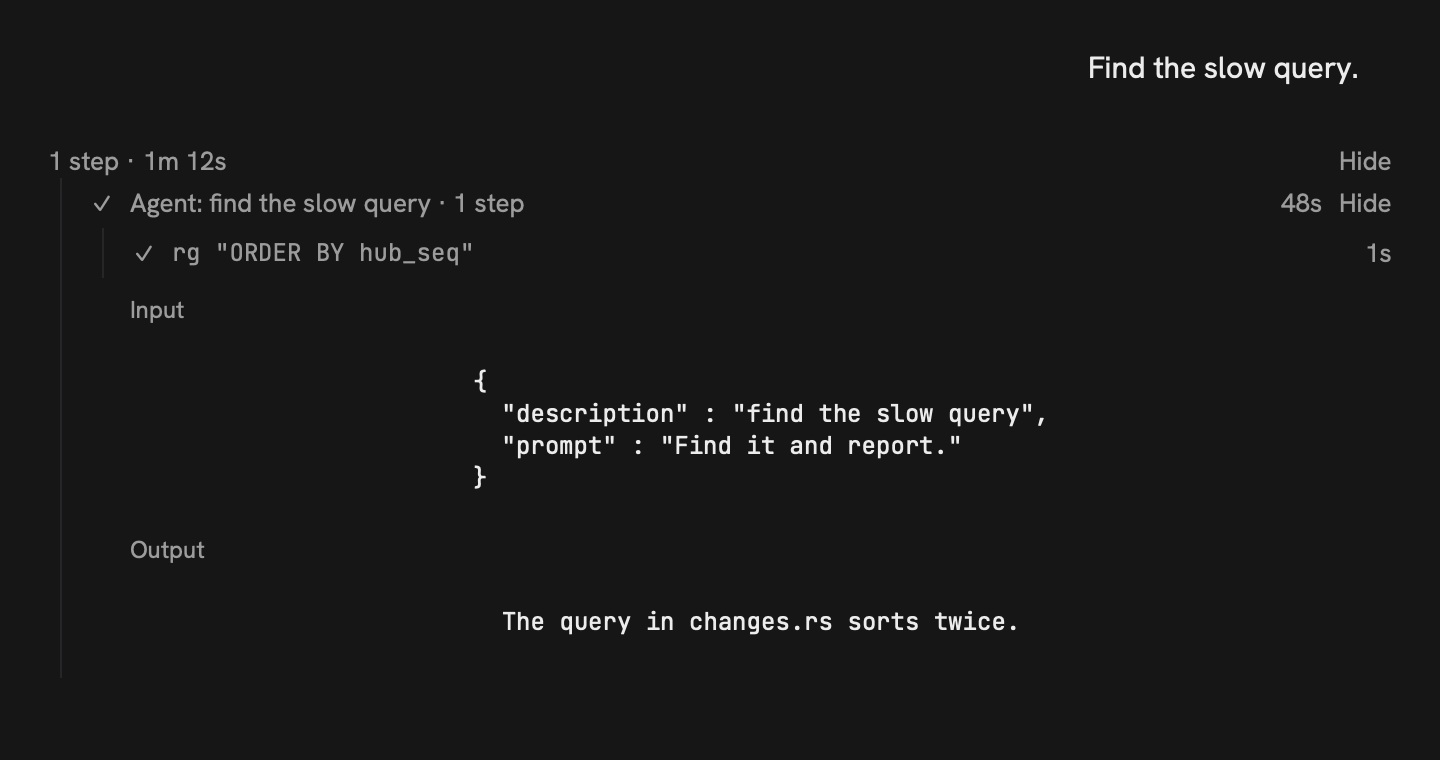
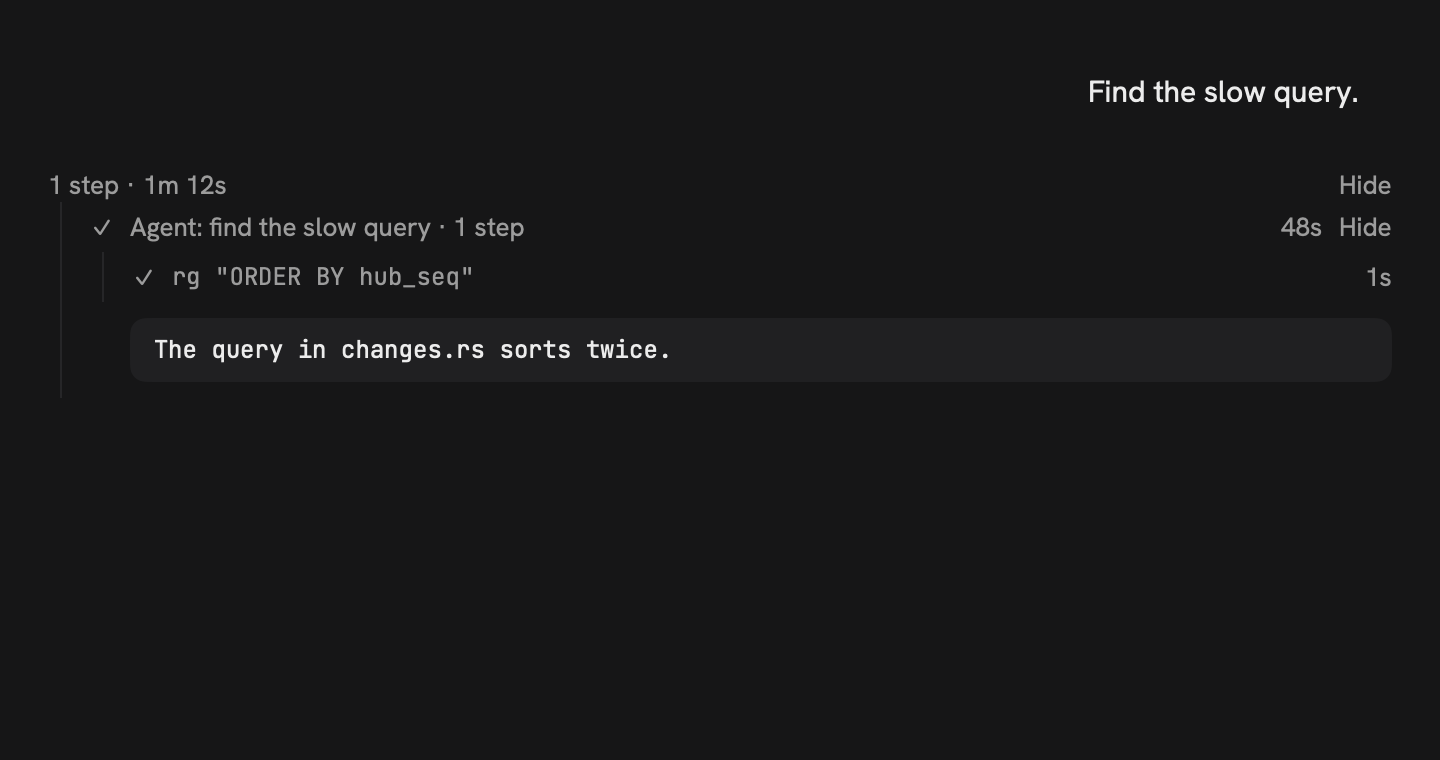
fix(ui): a step's output is a quiet block; an agent's output is its result alone

diff --git a/Tests/WorkspaceUITests/StepRowTests.swift b/Tests/WorkspaceUITests/StepRowTests.swift
@@ -213,6 +213,24 @@ import WorkspaceProtocol
     #expect(DenseTranscript.entries(items: items, turns: [turn()], open: ["t1", "gone", "c1"]) == plain)
   }
 
+  // MARK: the output block
+
+  @Test func theOutputBlockCutsAtTwentyLines() {
+    func text(_ n: Int) -> String { (1...n).map { "line \($0)" }.joined(separator: "\n") }
+    let few = StepOutputBlock.lines(of: text(3))
+    #expect(few.shown.count == 3 && few.total == 3 && few.control == nil)
+    let exact = StepOutputBlock.lines(of: text(20))
+    #expect(exact.shown.count == 20 && exact.control == nil)
+    let many = StepOutputBlock.lines(of: text(21))
+    #expect(many.shown == (1...20).map { "line \($0)" })
+    #expect(many.total == 21 && many.control == "Show all 21 lines")
+    // A trailing newline ends a line; it is not one.
+    let trailing = StepOutputBlock.lines(of: text(20) + "\n")
+    #expect(trailing.total == 20 && trailing.control == nil)
+    let empty = StepOutputBlock.lines(of: "")
+    #expect(empty.shown == [""] && empty.total == 1 && empty.control == nil)
+  }
+
   // MARK: the window
 
   /// An opened turn of 400 steps: the window is the latest page, every entry in it stands on its own,
@@ -392,6 +410,103 @@ import WorkspaceProtocol
       }
       #expect(drawn(["t1", "gone"]) == drawn(["t1"]))
       #expect(drawn(["t1"]) > drawn([]))
+    }
+    // MARK: the output block
+
+    private func output(_ text: String, input: JSONValue? = nil) -> DenseTranscript.StepRow {
+      var payload: [String: JSONValue] = [
+        "command": "cat out", "status": "completed", "aggregatedOutput": .string(text),
+      ]
+      if let input { payload["input"] = input }
+      return DenseTranscript.stepRow(
+        DisplayItem(
+          id: "c1", threadId: "th", turnId: "t1", role: .tool, type: "commandExecution",
+          payload: .object(payload),
+          sequence: 1, provenance: .live), in: .terminal)
+    }
+
+    private func screen(_ row: DenseTranscript.StepRow, width: CGFloat) -> HostedScreen {
+      HostedScreen(
+        VStack(spacing: 0) {
+          view(row, open: true)
+          Spacer(minLength: 0)
+        }, size: CGSize(width: width, height: 900))
+    }
+
+    /// The text starts at the block's padding, not centred in it.
+    @Test func theOutputTextStartsAtTheBlocksLeadingEdgeOnTheMac() throws {
+      let screen = screen(output("short\nlines\nhere"), width: 720)
+      defer { screen.close() }
+      let block = try #require(screen.frame("step-output"), "no output drawn")
+      let text = try #require(
+        screen.elements.first { ($0.label ?? "").hasPrefix("short") }?.frame, "no text drawn")
+      #expect(text.minX - block.minX <= LLA.Space.m + 1, "text at \(text.minX), block at \(block.minX)")
+      #expect(text.minX - block.minX >= 0)
+    }
+
+    @Test func aLongLineDoesNotWidenTheRowOnAPhone() throws {
+      let screen = screen(output(String(repeating: "x", count: 200)), width: 390)
+      defer { screen.close() }
+      let block = try #require(screen.frame("step-output"), "no output drawn")
+      let row = try #require(screen.frame("step-row"))
+      #expect(block.width <= 390 + 0.5, "\(block)")
+      #expect(block.maxX <= row.maxX + 0.5, "\(block) \(row)")
+    }
+
+    @Test func anAgentsOutputIsItsResultAlone() throws {
+      let agent = DenseTranscript.stepRow(
+        DisplayItem(
+          id: "k1", threadId: "th", turnId: "t1", role: .tool, type: "toolUse",
+          payload: [
+            "name": "Agent", "status": "completed", "output": "Three files.",
+            "input": ["description": "Count Swift files in src", "prompt": "Count them."],
+          ], sequence: 1, provenance: .live), in: .terminal)
+      let screen = HostedScreen(AgentOutputRow(row: agent), size: CGSize(width: 400, height: 200))
+      defer { screen.close() }
+      let heard = screen.elements.compactMap(\.label)
+      #expect(heard.contains { $0.contains("Three files.") }, "\(heard)")
+      #expect(!heard.contains("Input") && !heard.contains("Output"), "\(heard)")
+      #expect(!heard.contains { $0.contains("Count them.") }, "\(heard)")
+    }
+
+    @Test func anAgentWithNoTextSaysSo() {
+      let agent = DenseTranscript.stepRow(
+        DisplayItem(
+          id: "k1", threadId: "th", turnId: "t1", role: .tool, type: "toolUse",
+          payload: ["name": "Agent", "status": "completed", "output": "", "input": ["prompt": "Go."]],
+          sequence: 1, provenance: .live), in: .terminal)
+      let screen = HostedScreen(AgentOutputRow(row: agent), size: CGSize(width: 400, height: 200))
+      defer { screen.close() }
+      let heard = screen.elements.compactMap(\.label)
+      #expect(heard.contains("No text output."), "\(heard)")
+      #expect(!heard.contains("Input"), "\(heard)")
+    }
+
+    /// Twenty-five lines draw twenty and a button; pressing it draws all of them, and pressing again
+    /// draws twenty. The row above stays where it was.
+    @Test func theShowAllControlTogglesWithoutMovingTheRow() throws {
+      let text = (1...25).map { "line \($0)" }.joined(separator: "\n")
+      let screen = screen(output(text), width: 600)
+      defer { screen.close() }
+      func button(_ label: String) -> HostedScreen.Element? {
+        screen.elements.first { $0.role == .button && $0.label == label }
+      }
+      func press(_ element: HostedScreen.Element?) throws {
+        let element = try #require(element, "no control")
+        _ = element.object.accessibilityPerformPress?()
+        screen.layout()
+      }
+      let top = try #require(screen.frame("step-row")).maxY
+      let short = try #require(screen.frame("step-output")).height
+      try press(button("Show all 25 lines"))
+      #expect(button("Show all 25 lines") == nil)
+      let tall = try #require(screen.frame("step-output")).height
+      #expect(tall > short)
+      #expect(abs(try #require(screen.frame("step-row")).maxY - top) <= 0.5)
+      try press(button("Show fewer lines"))
+      #expect(try #require(screen.frame("step-output")).height == short)
+      #expect(button("Show all 25 lines") != nil)
+      #expect(abs(try #require(screen.frame("step-row")).maxY - top) <= 0.5)
     }
   }
 #endif

diff --git a/Sources/WorkspaceUI/StepRowView.swift b/Sources/WorkspaceUI/StepRowView.swift
@@ -168,7 +168,7 @@ struct AgentOutputRow: View {
   let row: DenseTranscript.StepRow
 
   var body: some View {
-    StepOutput(detail: ToolEvidence.detail(of: row.item))
+    StepOutput(detail: ToolEvidence.detail(of: row.item), resultOnly: true)
       .padding(.leading, LLA.Metrics.mark + LLA.Space.s)
       .padding(.vertical, LLA.Space.s)
       .stepIndent(row.depth)
@@ -195,44 +195,131 @@ extension View {
 }
 
 /// What an opened step draws: its working directory, input, output, exit code, changes and diffs, or
-/// its payload when none of those was recorded.
+/// its payload when none of those was recorded. `resultOnly` draws the output text alone (or the words
+/// for none): an agent's own output, whose input is already its row's title.
 struct StepOutput: View {
   let detail: ToolEvidence.Detail
+  var resultOnly = false
 
   var body: some View {
     VStack(alignment: .leading, spacing: LLA.Space.s) {
-      if let cwd = detail.cwd {
-        Text(cwd).llaCodeMuted()
-      }
-      if let input = detail.input {
-        Text("Input").llaCaption()
-        LLACodeBlock(input)
-      }
-      switch detail.output {
-      case .none: EmptyView()
-      // A result with no text is still a result; say so rather than draw nothing.
-      case .empty: Text("No text output.").llaSmallMuted()
-      case .text(let output):
-        if detail.input != nil { Text("Output").llaCaption() }
-        LLACodeBlock(output)
-      }
-      if let exitCode = detail.exitCode {
-        Text("Exit code \(exitCode)").llaSmallMuted()
-      }
-      ForEach(Array(detail.changes.enumerated()), id: \.offset) { _, change in
-        Text(change.path).font(LLAFont.mono(12, weight: .semibold)).foregroundStyle(LLA.Color.ink)
-        if let diff = change.diff {
-          LLACodeBlock(diff)
-        }
-      }
-      if let raw = detail.raw {
-        Text(raw).llaCodeMuted().textSelection(.enabled)
-        if detail.rawCut {
-          Text("Cut at \(ToolEvidence.rawLimit) characters.").llaSmallMuted()
-        }
+      if resultOnly {
+        result
+      } else {
+        full
       }
     }
     .accessibilityElement(children: .contain)
     .accessibilityIdentifier("step-output")
+  }
+
+  @ViewBuilder private var result: some View {
+    switch detail.output {
+    case .text(let output): StepOutputBlock(text: output)
+    case .empty, .none: Text("No text output.").llaSmallMuted()
+    }
+  }
+
+  @ViewBuilder private var full: some View {
+    if let cwd = detail.cwd {
+      Text(cwd).llaCodeMuted()
+    }
+    if let input = detail.input {
+      Text("Input").llaCaption()
+      StepOutputBlock(text: input)
+    }
+    switch detail.output {
+    case .none: EmptyView()
+    // A result with no text is still a result; say so rather than draw nothing.
+    case .empty: Text("No text output.").llaSmallMuted()
+    case .text(let output):
+      if detail.input != nil { Text("Output").llaCaption() }
+      StepOutputBlock(text: output)
+    }
+    if let exitCode = detail.exitCode {
+      Text("Exit code \(exitCode)").llaSmallMuted()
+    }
+    ForEach(Array(detail.changes.enumerated()), id: \.offset) { _, change in
+      Text(change.path).font(LLAFont.mono(12, weight: .semibold)).foregroundStyle(LLA.Color.ink)
+      if let diff = change.diff {
+        StepOutputBlock(text: diff)
+      }
+    }
+    if let raw = detail.raw {
+      Text(raw).llaCodeMuted().textSelection(.enabled)
+      if detail.rawCut {
+        Text("Cut at \(ToolEvidence.rawLimit) characters.").llaSmallMuted()
+      }
+    }
+  }
+}
+
+/// A step's text, quiet: small code type on the raised surface, leading-aligned, a long line scrolling
+/// sideways inside the block. Past `limit` lines the rest waits behind a link-style control.
+struct StepOutputBlock: View {
+  let text: String
+  @State private var showAll = false
+  @State private var memo = Memo()
+
+  static let limit = 20
+
+  /// The text cut at `limit` lines: what is drawn, how many lines there are, and the control's words when
+  /// some are left out. A trailing newline ends a line and does not start one.
+  struct Cut: Equatable {
+    var shown: [String]
+    var total: Int
+    var control: String?
+  }
+
+  static func lines(of text: String, limit: Int = limit) -> Cut {
+    var all = text.split(omittingEmptySubsequences: false, whereSeparator: \.isNewline).map(String.init)
+    if all.count > 1, all.last == "" { all.removeLast() }
+    guard all.count > limit else { return Cut(shown: all, total: all.count, control: nil) }
+    return Cut(shown: Array(all.prefix(limit)), total: all.count, control: "Show all \(all.count) lines")
+  }
+
+  /// The count of one text, kept across the parent's body evaluations.
+  private final class Memo {
+    var text: String?
+    var cut = Cut(shown: [], total: 0, control: nil)
+    func cut(of text: String) -> Cut {
+      if self.text != text {
+        self.text = text
+        cut = StepOutputBlock.lines(of: text)
+      }
+      return cut
+    }
+  }
+
+  var body: some View {
+    let cut = memo.cut(of: text)
+    let hidden = cut.control != nil && !showAll
+    VStack(alignment: .leading, spacing: LLA.Space.xs) {
+      ScrollView(.horizontal) {
+        Text(hidden ? cut.shown.joined(separator: "\n") : text)
+          .font(LLAFont.codeSmall)
+          .foregroundStyle(LLA.Color.ink)
+          .textSelection(.enabled)
+          .fixedSize(horizontal: true, vertical: true)
+          .padding(.horizontal, LLA.Space.m)
+          .padding(.vertical, LLA.Space.s)
+          .frame(maxWidth: .infinity, alignment: .leading)
+      }
+      .background(
+        RoundedRectangle(cornerRadius: LLA.Radius.input, style: .continuous).fill(LLA.Color.surfaceRaised)
+      )
+      .clipShape(RoundedRectangle(cornerRadius: LLA.Radius.input, style: .continuous))
+      if cut.control != nil {
+        Button {
+          showAll.toggle()
+        } label: {
+          Text(showAll ? "Show fewer lines" : (cut.control ?? ""))
+            .font(LLAFont.small)
+            .foregroundStyle(LLA.Color.muted)
+            .underline()
+        }
+        .buttonStyle(.plain)
+      }
+    }
   }
 }

diff --git a/Tests/WorkspaceUITests/DenseComposerTests.swift b/Tests/WorkspaceUITests/DenseComposerTests.swift
@@ -302,6 +302,13 @@
       window.host.layoutSubtreeIfNeeded()
     }
 
+    /// A layout pass, after a press.
+    func layout() {
+      window.host.layoutSubtreeIfNeeded()
+      RunLoop.main.run(until: Date().addingTimeInterval(0.05))
+      window.host.layoutSubtreeIfNeeded()
+    }
+
     func close() {
       window.close()
       guard !closed else { return }
